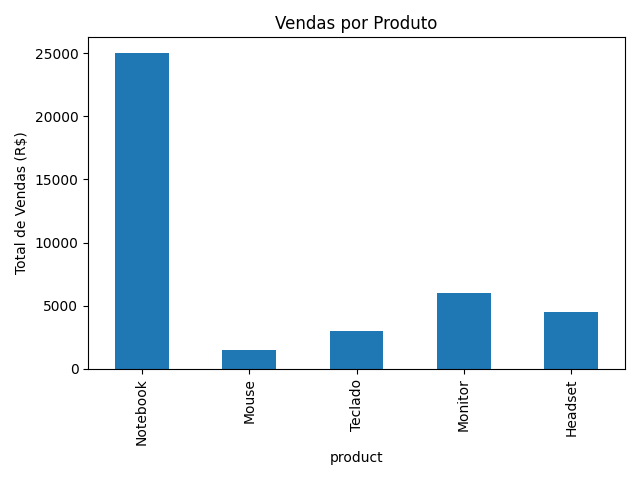
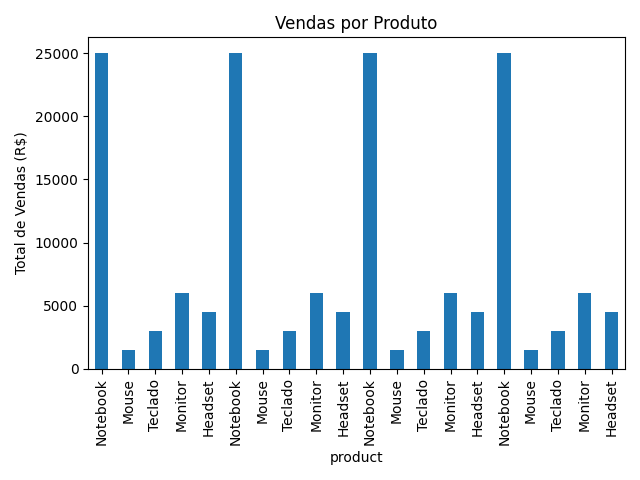
Implementando CRUD

Changed region(s): [[0.125, 0.0938, 0.9688, 0.9375]]

diff --git a/scripts/main.py b/scripts/main.py
@@ -2,56 +2,26 @@ import pandas as pd
 import sqlite3
 import matplotlib.pyplot as plt
 
+from database_operations import create_data, read_data, update_data, delete_data
 
-# Caminho para o banco de dados
-db_path = "./data/database.db"
+# Testando a função CREATE
+create_data("Produto X", 10, 100.0, "2024-12-25")
 
-# Conexão com o banco de dados
-conn = sqlite3.connect(db_path)
+# Testando a função READ
+def show_data():
+    print("\nDados atuais: ")
+    datas = read_data()
+    for data in datas:
+        print(data)
 
-# Lendo a tabela "sales" do banco de dados
-query = "SELECT * FROM sales;"
-sales_data = pd.read_sql_query(query, conn)
+show_data()
 
-# Fechano conexão
-conn.close()
+# Testando a função UPDATE
+update_data(4, product="Produto Y", price=25.0)
 
-print("Dados lidos do banco de dados: ")
-print(sales_data)
+show_data()
 
-# Calculando o total de vendas por produto
-sales_data["total_sales"] = sales_data["quantity"] * sales_data["price"]
+# Testando a função DELETE
+delete_data(5)
 
-# Filtrando produtos com vendas totais acima de R$ 1.000,00
-filtered_data = sales_data[sales_data["total_sales"] > 1000]
-
-# Exibindo dados manipulados
-print("\nDados manipulados: ")
-print(filtered_data)
-
-# Caminho para salvar o arquivo CSV
-output_path = "./output/processed_data.csv"
-
-# Salvando os dados filtrados em um arquivo CSV
-filtered_data.to_csv(output_path, index=False, sep=';')
-
-print(f"\nDados manipulados salvos em: {output_path}")
-
-
-# Lendo o arquivo CSV gerado
-csv_data = pd.read_csv(output_path, sep=";")
-
-# Exibindo as primeiras linhas do arquivo
-print("\nDados lidos do CSV: ")
-print(csv_data.head())
-
-# Estatísticas descritivas do total de vendas
-print("\nEstatística descritiva: ")
-print(csv_data["total_sales"].describe())
-
-# Gráfico de barras
-csv_data.plot(kind="bar", x="product", y="total_sales", title="Vendas por Produto", legend=False)
-plt.ylabel("Total de Vendas (R$)")
-plt.tight_layout()
-plt.savefig("./output/sales_chart.png") # Salva o gráfico como imagem
-plt.show()
+show_data()

diff --git a/scripts/database_operations.py b/scripts/database_operations.py
@@ -1,0 +1,74 @@
+import sqlite3
+
+
+db_path = './data/database.db'
+
+def create_data(product, quantity, price, date):
+    conn = sqlite3.connect(db_path)
+    cursor = conn.cursor()
+    
+    query = """INSERT INTO sales (product, quantity, price, date) VALUES (?, ?, ?, ?);"""
+
+    cursor.execute(query, (product, quantity, price, date))
+
+    conn.commit()
+    conn.close()
+
+    print("\nDado criado com sucesso!")
+
+def read_data():
+    conn = sqlite3.connect(db_path)
+    cursor = conn.cursor()
+
+    query = "SELECT * FROM sales;"
+
+    cursor.execute(query)
+
+    date = cursor.fetchall()
+
+    conn.close()
+
+    return date
+
+def update_data(data_id, product=None, quantity=None, price=None, date=None):
+    conn = sqlite3.connect(db_path)
+    cursor = conn.cursor()
+
+    fields = []
+    values = []
+
+    if product:
+        fields.append("product = ?")
+        values.append(product)
+    elif quantity:
+        fields.append("quantity = ?")
+        values.append(quantity)
+    elif price:
+        fields.append("price = ?")
+        values.append(price)
+    elif date:
+        fields.append("date = ?")
+        values.append(date)
+    elif not fields:
+        price("Nada para atualizar!")
+        return
+    
+    query = f"UPDATE sales SET {', '.join(fields)} WHERE id = ?;"
+    values.append(data_id)
+    cursor.execute(query, values)
+
+    conn.commit()
+    conn.close()
+    print("\nDado atualizado com sucesso!")
+
+def delete_data(data_id):
+    conn = sqlite3.connect(db_path)
+    cursor = conn.cursor()
+
+    query = "DELETE FROM sales WHERE id = ?;"
+
+    cursor.execute(query, (data_id,))
+
+    conn.commit()
+    conn.close()
+    print("\nDado deletado com sucesso!")

diff --git a/scripts/database_setup.py b/scripts/database_setup.py
@@ -1,4 +1,6 @@
 import sqlite3
+from random import random
+
 
 # Caminho do banco de dados
 db_path = "./data/database.db"
@@ -23,6 +25,16 @@ data = [
     ("Mouse", 50, 30.00, "2024-02-20"),
     ("Teclado", 20, 150.00, "2024-03-05"),
     ("Monitor", 5, 1200.00, "2024-04-12"),
+    ("Headset", 15, 300.00, "2024-05-30"),
+    ("Notebook", 10, 2500.00, "2024-01-15"),
+    ("Mouse", 50, 30.00, "2024-02-20"),
+    ("Teclado", 20, 150.00, "2024-03-05"),
+    ("Monitor", 5, 1200.00, "2024-04-12"),
+    ("Headset", 15, 300.00, "2024-05-30"),
+    ("Notebook", 10, 2500.00, "2024-01-15"),
+    ("Mouse", 50, 30.00, "2024-02-20"),
+    ("Teclado", 20, 150.00, "2024-03-05"),
+    ("Monitor", 5, 1200.00, "2024-04-12"),
     ("Headset", 15, 300.00, "2024-05-30")
 ]
 
@@ -31,4 +43,4 @@ cursor.executemany("INSERT INTO sales (product, quantity, price, date) VALUES (?
 conn.commit()
 conn.close()
 
-print("Banco de dados comfigurado com sucesso!")
+print("Banco de dados configurado com sucesso!")
